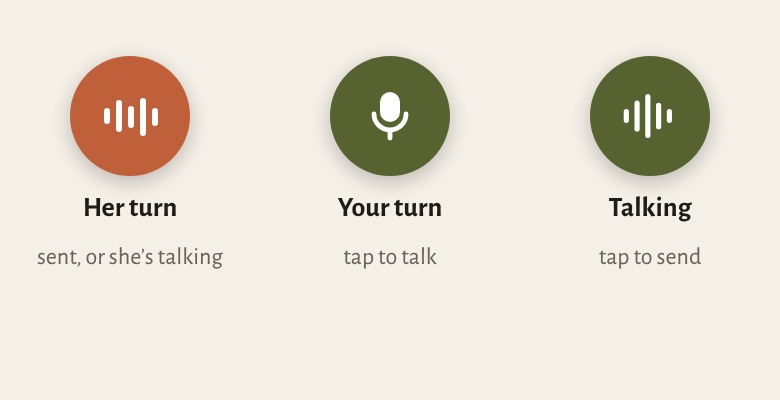
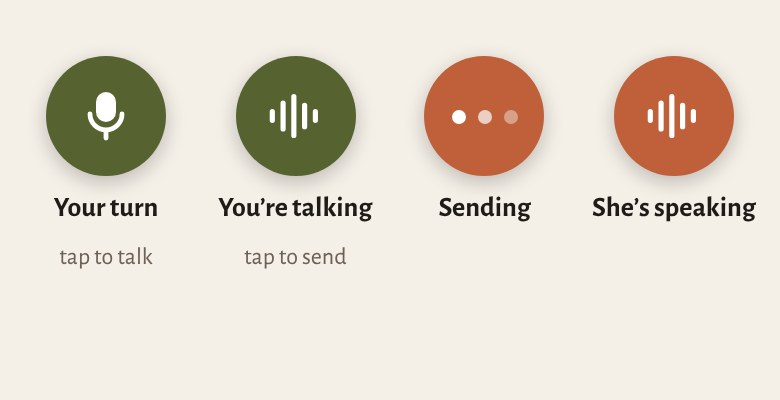
Bottom bar: two colours, a sending and a speaking state (Josh)
Josh: "2 colors, red/green, speaking, sending indicator, no pause, no play".
Green is you (your turn: mic; you're talking: your wave); terracotta is her
(sending: three dots; she's speaking: her wave). The earlier commit had
sending and speaking as one terracotta "her turn". No Pause or Play stays.
docs/bottom-bar.md, its images and the CLAUDE.md line updated to match.

Claude-Session: https://claude.ai/code/session_01HuSMtjsR1f1fbNVszYXEaS

diff --git a/docs/bottom-bar.md b/docs/bottom-bar.md
@@ -1,4 +1,4 @@
-# Bottom bar: one circle, three states
+# Bottom bar: one circle, two colours
 
 2026-10-22 · Josh · Decided with the cloud session on the design canvas ("Reply buttons", row F: https://claude.ai/artifact/X2FsYUrGWzXzf2tJxBALBV). **Not built.** For every conversation screen, scaffolding or not.
 
@@ -7,31 +7,33 @@
 ## Decisions (Josh)
 
 - **One circle, always.** The pill goes; the circle keeps its size and place in every state, only its fill and glyph change.
-- **Three states:**
+- **Two colours, four states (Josh: "2 colors, red/green, speaking, sending indicator, no pause, no play"):**
 
   | State | Circle | A tap |
   |---|---|---|
-  | **Her turn**: from the moment you send until she finishes speaking | terracotta, moving dots | cuts in and starts your turn (as today) |
   | **Your turn** | green, mic | starts talking |
-  | **Talking** | green, sound wave moving with your voice | sends |
+  | **You're talking** | green, sound wave moving with your voice | sends |
+  | **Sending** | terracotta, a sending indicator (three dots) | nothing |
+  | **She's speaking** | terracotta, sound wave moving with her voice | cuts in and starts your turn (as today) |
 
+  Green is you, terracotta is her.
 - **No Pause and no Play/Resume, anywhere** (Josh: "complexity before anyone asks for it"; the Pause and Resume safeguards were rules a computer wrote). A call, Siri, AirPods coming out or backgrounding just ends what was happening and leaves you on **your turn**; the mic never reopens without a tap. A failed step shows its message and leaves you on your turn too.
 - **Nothing else in the bar but the Learn link** ([learn.md](learn.md)): a 48 pt glass circle on the right, its centre on the circle's centre line, 6 pt in from the 48 pt column at the edge. Same place in every state, so it's never a moving target. Before there's anything to learn, the right side is empty.
 
-| Your turn | Talking | Her turn |
-|---|---|---|
-| ![](../design/bottom-bar/your-turn.jpg) | ![](../design/bottom-bar/talking.jpg) | ![](../design/bottom-bar/her-turn.jpg) |
+| Your turn | You're talking | Sending | She's speaking |
+|---|---|---|---|
+| ![](../design/bottom-bar/your-turn.jpg) | ![](../design/bottom-bar/talking.jpg) | ![](../design/bottom-bar/sending.jpg) | ![](../design/bottom-bar/her-turn.jpg) |
 
 ## Sizes and colours
 
 - Circle 68 pt (the canvas; 64–72 is fine), centred, about 34 pt above the bottom edge; soft shadow.
-- Green `Tokens.Colors.green` (#566330) with white glyphs; terracotta `Tokens.Colors.terracotta` (#C0603A) with white dots. Glyphs: `mic.fill`, a live level waveform, the existing `LevelDots`.
+- Green `Tokens.Colors.green` (#566330) with white glyphs; terracotta `Tokens.Colors.terracotta` (#C0603A) with white glyphs. Glyphs: `mic.fill`; a live level waveform for you and for her; three dots for sending.
 - Reduce Motion: the dots and the wave hold still.
-- Accessibility labels: "Tap to talk", "Tap to send", "Stops her and starts your turn".
+- Accessibility labels: "Tap to talk", "Tap to send", "Sending", "Stops her and starts your turn".
 
 ## What changes in the code (for the laptop)
 
-- `ConversationControls.swift`: the pill becomes the circle; remove the Pause/Resume button and the stop square; `pillFill` maps your turn and talking to green, her turn (speaking and thinking) to terracotta.
+- `ConversationControls.swift`: the pill becomes the circle; remove the Pause/Resume button and the stop square; `pillFill` maps your turn and talking to green, thinking (sending) and speaking to terracotta; speaking shows her voice's level as a wave.
 - Interruptions and failures go to your turn (`tapToTalk`) instead of a paused state; hands-free keeps reopening the mic by itself between turns, with no Pause.
 - CLAUDE.md's safeguard line is updated in the same commit as this doc.
 

diff --git a/CLAUDE.md b/CLAUDE.md
@@ -35,7 +35,7 @@ Added 2026-10-13 after M2 was reported "complete" while its core features had ne
 ## iPhone app
 One app for every country (Fuori in Italy, Afuera in Mexico; the country is chosen in onboarding): nothing in Swift assumes Italian, and every screen is checked in both countries. Follow Apple's Human Interface Guidelines strictly: use iOS's own components and behaviours and style on top of them. Full rules, decisions and reasons: `docs/13-ios-conventions.md` (from the HIG; `npm run hig` downloads a local copy).
 - Must hold on every screen: the standard back button and swipe, and every exit (back, swipe, "Sali", background) saves through one leave function; text sizes from text styles (`Font.custom(_:size:relativeTo:)`, `@ScaledMetric`), so Dynamic Type and Bold Text work; colours and sizes only from the tokens (`design/tokens.json`, `npm run tokens`), text contrast at least 4.5:1; light-only until the night-paper palette (N2); the settings button (Fuori's own icon, `SettingsIcon`) top right on every screen; words in the learned language and any country default (a starting city) from `/v1/content`, never in Swift; no AI notes in the game: explanations only in onboarding and Settings → About Fuori.
-- Conversation screen: standard navigation bar, then the approved paper name band, then the portrait. Subtitles type out in step with the voice; the English translation never shows until the character has finished speaking. The character speaks by himself; the learner taps to talk and taps again when done (default), or turns on Hands-free in Settings. The bottom bar is one circle with three states (her turn terracotta, your turn green mic, talking green wave) and the Learn link on the right; no Pause or Resume (Josh, 2026-10-22: "complexity before anyone asks for it"; `docs/bottom-bar.md`). Safeguards: calls, Siri, AirPods out and backgrounding return the learner to their turn and the mic never reopens without a tap; tap-to-talk when VoiceOver is on (no "more time to answer" setting: Josh, 2026-10-16, it would confuse; tap to talk has no timer).
+- Conversation screen: standard navigation bar, then the approved paper name band, then the portrait. Subtitles type out in step with the voice; the English translation never shows until the character has finished speaking. The character speaks by himself; the learner taps to talk and taps again when done (default), or turns on Hands-free in Settings. The bottom bar is one circle in two colours: green for you (mic, then your wave), terracotta for her (sending, then her wave) and the Learn link on the right; no Pause or Resume (Josh, 2026-10-22: "complexity before anyone asks for it"; `docs/bottom-bar.md`). Safeguards: calls, Siri, AirPods out and backgrounding return the learner to their turn and the mic never reopens without a tap; tap-to-talk when VoiceOver is on (no "more time to answer" setting: Josh, 2026-10-16, it would confuse; tap to talk has no timer).
 - Done for a screen also means, said in the commit: largest text size (AX5) without clipping; VoiceOver pass (labels; target-language words read in that language); 44 pt targets with a pressed state; back swipe saves; Reduce Motion respected; for audio screens, a call, Siri, AirPods in and out, backgrounding and locking checked on Josh's iPhone. Builds: `cd ios && make build` or XcodeBuildMCP; CI (`.github/workflows/ios.yml`) must pass. A simulator run is not "used": audio needs the phone.
 
 ## Working across sessions
